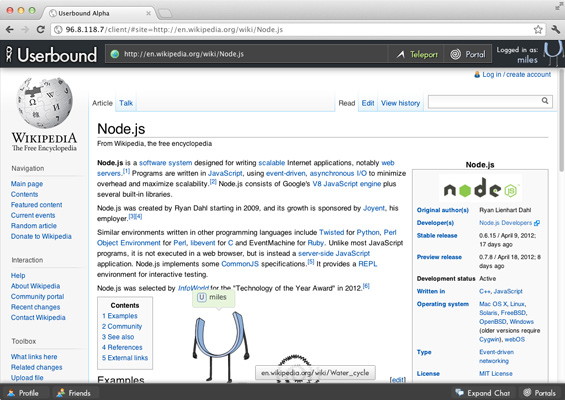
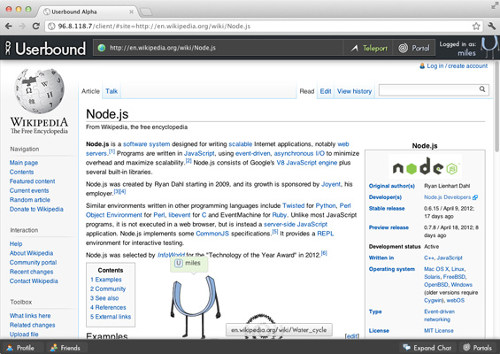
cleaning up the project pages

diff --git a/_includes/style/css/style.css b/_includes/style/css/style.css
@@ -32,7 +32,7 @@ h2 a {
 }
 
 h3 {
-  margin-top: 50px;
+  margin-top: 10px;
 	font-size: 24px;
 	color: #1648a3;
 }
@@ -57,7 +57,7 @@ p {
 	font-size: 16px;
 	line-height: 26px;
 	margin: 25px 0px;
-	margin-top: 15px;
+	margin-top: 13px;
 }
 
 a {
@@ -210,14 +210,12 @@ div#pagination a {
 /* Project */
 
 div.project h3 {
-	margin-top: 30px;
-	padding-bottom: 8px;
+	margin-top: 35px;
+	padding-bottom: 0px;
+  margin-bottom: 0;
   color: #000000;
   font-size: 20px;
-  font-weight: normal;
-  border-bottom: 1px dashed #888888;
-  display: inline-block;
-  clear: both;
+  font-weight: 200;
 }
 
 
@@ -231,8 +229,14 @@ div.project .description {
 	font-size: 15px;	
 	color: #4f4f4f;
   margin-bottom: 20px;
-  line-height: 18px;
+  line-height: 24px;
 
+}
+
+.ub-character {
+  float: right; 
+  padding: 20px;
+  padding-top: 60px;
 }
 
 

diff --git a/projects/userbound/index.md b/projects/userbound/index.md
@@ -1,50 +1,31 @@
 ---
 layout: project_entry
 title: Userbound
-description: A multi-user web browser concept in which each user is a character. You can chat with other users on the same page as you. Clicking on a link makes your character jump up and into the link.
+description: Multi-user web browser concept. Users chat with other animated users on the same page. Clicking a link makes your character jump up into the link.
 ---
-### The Concept and Team
-<div style="float: right; padding: 20px"><img alt="The Character" src="/images/userbound-character.png"/></div>
-In Spring of 2010 I thought up an intresting concept for a web browser. What if there was a web browser where everyone using that web browser was represented as a character on the page being viewed. Further, when you clicked on a link your character would actually jump up and into the link.
+### Concept and Team
+<div class='ub-character'><img alt="The Character" src="/images/userbound-character.png"/></div>
+In the Spring of 2010, I thought up an interesting concept for a web browser. What if there was a web browser where everyone using that web browser was represented as a character on the page being viewed. Further, when characters clicked on links, the characters would actually jump up into the links.
 
-So I called up my brother, [Holden](https://github.com/hs89), and told him about my idea. He was also intrested in the idea so we decided we'd persue it together. We made the first prototype at the 2011 NYC Disrupt Hackthon and continued to work on it for many months after that. All throughout, Holden worked to build a back-end API, while I built the front-end web-application. Also at some point we brought in an old friend, Michael Ryterband, to help us create the character for the project.
+My brother, [Holden](https://github.com/hs89), and I made the first prototype at the 2011 NYC Disrupt Hackthon and continued to work on the concept for several months after that. Holden worked to build a back-end API, while I built the front-end web-application. We also recruited an old friend, Michael Ryterband, to help us create the character for the project.
 
-<hr class="dotted" />
+### User Interface
+Imagine you are traveling through the Internet as an animated character. Your character can  move around the screen using the arrow keys.  If someone else arrives on the same page as you, you can see and chat with their character.  Clicking a link causes your character to jump up and into the link.  The portal system allows you and others to create un-solicited two way links between sites.
 
-### The User Interface
-Below are some screenshot of the user interface for Userbound. Basically you are an animated character within the Internet! The best way to get a feel for it is to try it yourself.
-
-Once logged in, you are thrown onto the Internet as a character. You can move around using you arrow keys.  If you click on a link you're character actually jumps up and into the link. Also if someone else comes to the same page as you you can chat with them. If they click on a link you can see them jump into it and visa versa.
-
-*The basic user interface:*
 <a href="/images/userbound-shot-a.png"><img alt="Userbound Interface" src="/images/userbound-shot-a-thumb.jpg" /></a>
 
-*Jumping into a link:*
 <a href="/images/userbound-shot-b.png"><img alt="Link Jump in the Userbound Interface" src="/images/userbound-shot-b-thumb.jpg" /></a>
 
-*Chatting with another user:*
 <a href="/images/userbound-shot-c.png"><img alt="Chatting with Another User in the Userbound Interface" src="/images/userbound-shot-c-thumb.jpg" /></a>
 
-There is also a minimal friends system so that you can chat with friends on different pages and teleport to friends' locations. Additionally we have a portal system (can be seen in first screenshot) which allows you to create two way links between sites within Userbound.
 
-<hr class="dotted" />
 
 ### Technical Details
-On the back-end Holden did used Node.JS. Socket.IO was used for communication with the client and Redis was used for our database.  
+We used a JS stack.  Holden used Node.JS for the server with Redis as the back-end.  Socket.IO was used for communication between the server and client.  For the front-end application, I used Require.JS, Raphael.JS, Socket.IO, and JQuery. Require.JS allowed me to separate different functionality / pieces of the application into modules. I used Raphel.JS to animate the characters' movement.
 
-For the web application I used Require.JS, Raphael.JS, Socket.IO, and JQuery. Require.JS allowed me to seperate different functionality / pieces of the application into modules. Raphel.JS was used for the characters animation and movement. And of course JQuery was used for user-interaction.
+I needed a way to allow natural transitioning between page to page for 'site jumps'. From the start I knew that cross-domain issues would be a problem. I was trying to build a browser inside a browser. An iframe was a start, but I needed a way to detect activity *within* the iframe as well (i.e. to determine when a user clicked a link) to show user-jumps between other clients.  Being built as a web-app, my solution to cross-domain issues was [YQL](http://developer.yahoo.com/yql/). YQL is a service provided by Yahoo which lets you query hosts with SQL-like syntax. I made an Open Data Table to pass through whatever content YQL fetched - giving me the HTML to inject back into the iframe. Complications ensued. What about stylesheets, javascript, and site resources. I crafted up some regex to handle edge-cases.  YQL ultimately turned out to be a less-than-ideal solution. I made the mistake of building a browser within a browser. As effect, the only way to get around cross-domain issues was a proxy server. 
 
-The way I actually got the content into the page to allow for transitioning from page to page (sitejumps) was intresting. From the start I knew that Cross-Domain Security would be a problem. Basically what I needed was a way to inject some Javascript into the loaded iFrame in order to determine when a user clicked a link (so that other clients could see the character jump in).
+### Future of Userbound?
+My brother and I put in a lot of free time building the concept out. It was a great learning experience figuring out the technical implementation. I wound up learning a great deal about Javascript, modularity (working with Require.JS), Geometry (SVG spec and Raphael.JS), and overall how to manage a larger-sized codebase.  We managed the whole thing on SVN and had over 300 commits pushed total in the end.  There are a million and a half thing I would have done differently in making it if I knew then what I know now. So goes the learning process. 
 
-My solution to the Cross-Domain issue was [YQL](http://develop.yahoo.com/yql). YQL is a service provided by Yahoo which lets you query the Internet with SQL-like syntax. I made an Open Data Table to just pass through whatever content YQL fetched - thus giving me the HTML to inject back into the iFrame. However, complications ensued. What about stylesheets, javascript, and site resouces. I wipped up some regex to handle this. It didn't work 100% of the time but it was pretty damn good.
-
-YQL as a solution was less than ideal but it was functional. Further the only other way to get around the Cross-Domain issue would be a proxy server, but essentially that was what YQL was already doing for us. So why bother?
-
-<hr class="dotted" />
-
-### The Future of Userbound?
-My brother and I spent over half a year working on Userbound in free time. It was an incredibly intresting idea and we both learned a ton implementing it. I wound up learning a great deal about Javascript, modularity (working with Require.JS), Geometry (SVG spec and Raphael.JS), and overall how to manage a large scale project.  We managed the whole thing on SVN and had over 300 commits total by the end.  There are a million a a half thing I would have done differently in making it if I knew then what I know now. But then again, is that not the learning process? 
-
-We thought about maybe launching a Userbound Beta, however we decided against it as the way it was set up would not scale. Also it was buggy with quite a few sites due to the YQL piping method I used.
-
-I did wind up using the name Userbound for this site itself in memory of Userbound.
+We thought about launching a Userbound Beta, however decided against it.. as the way the front-end was done, it would not scale. Alas, YQL as a proxy method was buggy and it was ultimately a mistake to build a browser within a browser.  I did however use the name Userbound for this site itself.. in memory of Userbound.

diff --git a/projects/keyboard-tiler/index.md b/projects/keyboard-tiler/index.md
@@ -1,13 +1,11 @@
 ---
 layout: project_entry 
 title: Keyboard Tiler
-description: A program that takes an argument of 2 keys on your keyboard and places your window where those keys are represented on the tiles of your keyboard.
+description: A program that takes an argument of 2 keys on your keyboard and maps your window to the screen using the keyboard grid as referent.
 ---
 
-### A Mental Model for Keyboard-Driven WM
-I found myself liking the workflow of having a floating window manager but disliking resizing windows as grabbing the sides of windows was difficult. This was an effect of the resize buttons being way to small (see [Fitts's Law](http://en.wikipedia.org/wiki/Fitts's_law)). On the contrary, all of the keyboard based tiling window managers provided keybindings but they were not always obvious.
-
-**But what about a more obvious mental model for keyboard-driven window management?** Look down at your keyboard and consider the grid of keys from **1** down to **Z** over to **/**, and up to **0**. Yeah, that's a 4x10 grid, giving you 40 tiles to arrange windows. This is a script to take in any two keys and position the window on those tiles. Feed that into a chorded keymap program and you're set. 
+### A More Paradigmatic Tiler
+Look down at your keyboard and consider the grid of keys from **1** down to **Z** over to **/**, and up to **0**. That's a 4x10 grid. Imagine mapping the visual space of your screen to the keyboard. You would have 40 tiles to arrange windows. This is a script does just that. It takes any two keys on your keyboard and positions your window using the keyboard as a your interface and visual referent. 
 
 
 <table id="keyboard">
@@ -19,22 +17,19 @@ I found myself liking the workflow of having a floating window manager but disli
 
 	<tr> <td class="hit">Z</td> <td class="hit">X</td> <td class="hit">C</td> <td class="hit">V</td> <td class="hit act">B</td> <td>N</td> <td>M</td> <td>&lt;</td> <td>&gt;</td> <td>/</td> </tr>
 </table>
-So in this example hitting **1 and B** would place and resize the window to occupy the **left half your screen because that's the left half of your keyboard**. This works for any two keys on your keyboard.  My intentions with Keyboard Tiler was to create an obvious mental model for having keyboard-driven window management in by using the tiles of your keyboard.
+So in the above example, hitting **1 and B** would place and resize the window to occupy the **left half your screen because that's the left half of your keyboard**. This works for any two keys.  My intention was to create an obvious and intuitive mental model for keyboard-driven window management.
 
-<hr class="dotted" />
 
 ### Technical Details 
 
-I decided to use xdotool so I could focus on the logic of processing the two points and positioning the window on the screen rather than building out a full window manager. The [entire script](http://github.com/mil/keyboard-tiler/blob/master/keyboard-tiler.rb) works to calculate the variables used in this fashion pass to xdotool:
+I scripted around xdotool so I could focus on the logic of processing the two points and positioning the window on the screen rather than building out a full window manager. The [entire script](http://github.com/mil/keyboard-tiler/blob/master/keyboard-tiler.rb) works to calculate the variables used, ultimatly pushing to xdotool as:
 
 <pre class="sh_ruby">
 %x[xdotool getactivewindow windowmove --sync #{startX} #{decorationsHeight + startY}]
 %x[xdotool getactivewindow windowsize --sync #{newWidth} #{newHeight - (decorationsHeight * 2)}]
 </pre>
 
-Providing keybindings is another task seperate from the logic of processing keys. For the keybindings my first thought was to use [xchainkeys](http://code.google.com/p/xchainkeys). This way I could have Emac style key chaining or chording for pressing the two keys.
-
-To generate the keybindings for xchainkeys, I created the [logic to generate all permutations](https://github.com/mil/keyboard-tiler/blob/master/utils/generate-xchains.rb) for any two keys on the grid being pressed like:
+Providing keybindings is another task seperate from the logic of my key processing script. For the keybindings my first thought was to use [xchainkeys](http://code.google.com/p/xchainkeys). This way I could have emacs style key chording for pressing two keys in positioing.  To generate the keybindings for xchainkeys, I created the [logic to generate all permutations](https://github.com/mil/keyboard-tiler/blob/master/utils/generate-xchains.rb) for any two keys on the grid being pressed:
 
 <pre class="sh_ruby">
 $tiles = [
@@ -60,9 +55,5 @@ $tiles.each_with_index do |row, column|
 end
 </pre>
 
-And that was it! I had the functionality I was looking for. A way to resize windows in a floating window manager using the keyboard only with a **good** mental model. 
-
-*One other note:* You can also use this script with [Dmenu](http://tools.suckless.org/dmenu/) if your handy with pipes and the only disadvantage over xbindkeys is you have to hit enter after your two keys. An example of how to setup Dmenu can be found in the project's README.
-
-
-Grab the source for yourself on [GitHub](http://github.com/mil/keyboard-tiler).
+### Sidenote
+You can also use this script with [Dmenu](http://tools.suckless.org/dmenu/) if your handy with pipes and the only disadvantage over xbindkeys is you have to hit enter after your two keys. An example of how to setup Dmenu can be found in the project's README.  Grab the source for yourself on [GitHub](http://github.com/mil/keyboard-tiler).
